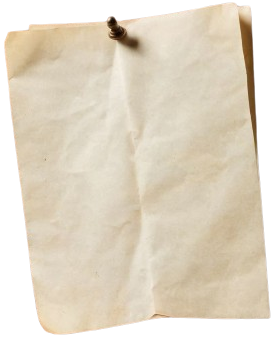
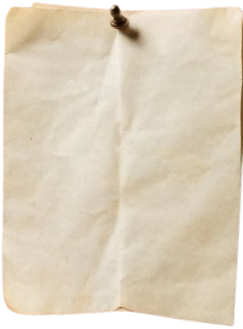
make MainComponent and style them without responsive

diff --git a/src/components/MainSidebar.jsx b/src/components/MainSidebar.jsx
@@ -15,18 +15,23 @@ const MainSidebar = () => {
     if(error) return toast.error(`در دریافت دسته بندی ها مشکلی پیش آمده`)
 
     return (
-        <aside className=' relative  BG sm:w-1/5 top-[10svh] h-[40svh] flex flex-col items-center content-end'>
-            <img className="fixed top-[20svh] h-[42svh] z-0 sm:w-1/5" src={sidebarBG} alt="sidebarBG" />
-            <h1>دسته بندی ها</h1>
-            <section  className='z-10 flex flex-col w-[70%] right-[15%] h-full gap-1'>
-
-                {data.data.map(data=>
-                    <section key={data._id} className='flex flex-row items-start justify-start gap-3'  value={data._id} >
-                        <img src={`${data.icon}.svg`} alt="category icon" />
-                        <p >{data.name}</p>
+        <aside className='fixed sm:w-52 sm:h-[50svh]'>
+            <img className="fixed top-[20svh] sm:h-[50svh] z-0 sm:w-56 right-3" src={sidebarBG} alt="sidebarBG" />
+            <ul  className='relative z-10 top-[14svh] flex flex-col sm:w-48 gap-1 right-6 sm:h-[42svh] overflow-y-scroll'>
+                <li className='titles my-2 text-xs'>دسته بندی ها</li>
+                <li value="all">
+                    <section  className='flex flex-row items-start justify-start gap-3'>
+                        <img src="all.svg" alt="all categories" />
+                        <p>همه</p>
                     </section>
+                </li>
+                {data.data.map(data=>
+                    <li key={data._id} className='flex flex-row items-start justify-start gap-3'  value={data._id} >
+                        <img src={`${data.icon}.svg`} alt="" />
+                        <p >{data.name}</p>
+                    </li>
             )}
-            </section>
+            </ul>
         </aside>
     );
 };

diff --git a/src/components/MainComponent.jsx b/src/components/MainComponent.jsx
@@ -1,11 +1,36 @@
 import React from 'react';
+// utils
+import { ChangePriceToToman } from '../utils/ChangePriceToIranToman';
+// images
+import postsBG from "../assets/images/paper_without_BG.png"
 
-const MainComponent = () => {
+const MainComponent = ({posts}) => {
+console.log(posts);
+
+
+
+
     return (
-        <div>
-            MainComponent
-            MainComponent
-        </div>
+        <main className=' mainPageComponent text-darkBrown'>
+        {
+            posts.map((posts)=>
+                <section key={posts._id} className='relative flex sm:flex-col flex-col items-center justify-between h-80 w-52'>
+                    <img src={postsBG} className='absolute z-0 h-full w-full' alt="" />
+                    <section className='absolute flex flex-col justify-center sm:items-center items-center gap-6 sm:w-1/2 w-full h-1/2 mt-10'>
+                            <img className=' w-full h-full maskForImages' src={`${import.meta.env.VITE_BASE_URL}/${posts.images}`} />
+                            <section className='flex flex-col '>
+                                <p className='text-md'>{posts.options.title}</p>
+                            </section>
+                    </section>
+                    <section className='absolute flex sm:flex-row flex-col items-center justify-center sm:items-center sm:justify-center gap-3 h-1/2 top-1/2 sm:w-1/2 w-full'>
+                            <section className='grid place-items-center py-3'>
+                                <p>{posts.options.city}</p>
+                                <span><span className='text-gray-700 text-xs'> قیمت :  </span>{ChangePriceToToman(posts.amount)}تومان</span>
+                            </section>
+                    </section>
+                </section>
+        )}
+        </main>
     );
 };
 

diff --git a/src/components/CategoryList.jsx b/src/components/CategoryList.jsx
@@ -1,5 +1,5 @@
 import React, { useState } from 'react';
-import { useQuery } from '@tanstack/react-query';
+import { useQuery, useQueryClient } from '@tanstack/react-query';
 // services & utils
 import { getCategory } from '../services/Admin';
 import Loader from '../modules/Loader';
@@ -8,7 +8,6 @@ import DeleteCategoris from './DeleteCategoris';
 import toast from 'react-hot-toast';
 
 const CategoryList = () => {
-    
     const{data,isLoading,isError,error}=useQuery({queryKey:["category-list"],queryFn:getCategory })
     
 
@@ -18,12 +17,12 @@ const CategoryList = () => {
         if(isError)return toast.error(`${error.message}`)
     return (
         <article className=' relative flex flex-col items-start justify-between border-red-200 border-[1.5px] text-sm px-2  w-[90%] right-[5%] rounded-xl  backdrop-blur-sm bg-white bg-opacity-40'> 
-            <h1 className='relative text-center bg-darkRed text-white w-[90%] right-[5%] rounded-2xl '>دسته بندی ها</h1>
+            <h1 className='titles my-2'>دسته بندی ها</h1>
             {   
                 data.data.map(data=>
                     <section className='flex flex-row items-center justify-between w-full' key={data._id}>
                         <section className='w-1/2  flex flex-row items-stretch py-4' >
-                            <img className=' h-[1.8cap]' src={`${data.icon}.svg`} alt={data.icon} />
+                            <img className=' h-[1.8cap]' src={`${data.icon}.svg`} alt="" />
                             <h5>{data.name}</h5>
                         </section>
                         <section className='flex flex-row items-center justify-between w-1/2'>

diff --git a/src/index.css b/src/index.css
@@ -5,15 +5,21 @@
 @tailwind utilities;
 
 
-:root {
-  --scrollbar-width: 16px;
-}
+
 
 @layer base { 
+  :root {
+    --color-lightBrown: #c9a07e;
+    --color-darkBrown: #6d3100;
+    --color-lightOrange: #d5532057;
+    --color-lightBlue: #87ceeb;
+    --color-darkRed: #d02727;
+  }
   html {
     font-family: "Vazir"; 
     min-height:100svh;
   }
+
 
 
 
@@ -80,7 +86,53 @@
     color: #000000;
     text-shadow: 0 0 5px #fff;
   }
+  ::-webkit-scrollbar {
+    width: 12px;
+  }
 
+  ::-webkit-scrollbar-track {
+    background: var(--color-lightOrange);
+    border-radius: 6px ;
+    border: 1px solid #00000066;
+  }
+
+  ::-webkit-scrollbar-thumb {
+    background-color: var(--color-darkBrown);
+    border-radius: 6px;
+  }
+  
+  ::-webkit-scrollbar-thumb:hover {
+    background-color: var(--color-lightBrown);
+    border: 1px solid #000
+  }
+  .titles{
+    padding-inline:20px;
+    box-shadow: 0 0 5px #000 , 0 0 10px #000000 , inset 0 0 0px #000;
+    border-radius: 30px;
+    padding: 5px 10px;
+    position: relative;
+    background: var(--color-lightBrown);
+    text-align: center; 
+
+    width: 50%;
+    right: 25%;
+  }
+  .mainPageComponent{
+    position: relative;
+    height: fit-content;
+    right: 16rem;
+    width:calc(100svw - 18rem) ;
+    display: grid;
+    grid-template-columns: repeat(auto-fit,minmax(200px,1fr));
+    row-gap: 30px;
+    column-gap:20px;
+  }
+  .maskForImages{
+    mask-border-source: url('./assets/images/images_mask.png');
+    mask-size:contain;
+    mask-position: center;
+    mask-repeat: no-repeat;
+  }
 }
 
 @media (width <= 1024px){

diff --git a/src/Routes/Router.jsx b/src/Routes/Router.jsx
@@ -11,29 +11,25 @@ import { useQuery } from "@tanstack/react-query"
 import {userInformations} from "../services/GetUserProfile"
 import Loader from "../modules/Loader"
 import { getCookie } from "../utils/cookie"
+import toast from "react-hot-toast"
 
 
 const Router =()=> {
-    const userINFS=getCookie("userInformations");
-    const accessToken=getCookie("accessToken")
-    const initialData = userINFS && JSON.parse(userINFS);
-    
-  const { data, isLoading, error } = useQuery({
-            queryKey: ["profile"],
-            queryFn: userInformations,
-            initialData,
-            staleTime:Infinity,
-            cacheTime:Infinity,
-            enabled:!(!!accessToken),
-          });
+    const { data, isLoading, error } = useQuery({
+        queryKey: ["profile"],
+        queryFn: userInformations,
+        staleTime:Infinity,
+        cacheTime:Infinity,
+      }) ;
 
 if(isLoading) return <Loader/>;
+if(error) return toast.error("مشکلی پیش آمده،دوباره امتحان کنید")
     return(
         <Routes>
             <Route index element={<HomePage/>}/>
             <Route path="/dashbord" element={data ? <DashbordPage/> : <Navigate to="/auth"/>}/>
             <Route path="/auth" element={data ?<Navigate to="/dashbord"/> : <AuthPage/>}/>
-            <Route path="/admin" element={data && data.role==="ADMIN"?<AdminPage/> : <Navigate to="/"/> }/>
+            <Route path="/admin" element={data && data.data.role==="ADMIN"?<AdminPage/> : <Navigate to="/"/> }/>
             <Route path="*" element={<NotFound/>}/>
         </Routes>
     )

diff --git a/src/components/PostsList.jsx b/src/components/PostsList.jsx
@@ -10,15 +10,15 @@ import DeletePosts from './DeletePosts';
 
 const PostsList = () => {
     const baseURL=import.meta.env.VITE_BASE_URL;
+
     const{isLoading,data,error}=useQuery({queryKey:["my-posts-list"],queryFn:getMyPosts});
     
     if(error){return toast.error(`دریافت پست های شما با خطا مواجه شد ، دوباره امتحان کنید`)}
     if(isLoading)return <Loader text={"در حال بارگذاری لیست"}/>
-
-console.log(data.data.posts[0]._id);
+    console.log({isLoading,data,error});
     return (
         <article className=' relative flex flex-col items-start justify-between gap-2 border-red-200 border-[1.5px] text-sm px-2  w-[90%] right-[5%] rounded-xl  backdrop-blur-sm bg-white bg-opacity-40'>
-            <h1 className='relative text-center bg-darkRed text-white w-[90%] right-[5%] rounded-2xl '>لیست پست های من</h1>
+            <h1 className='titles text-sm '>لیست پست های من</h1>
             {
                 data.data.posts.map(post=>
                     <section key={post._id} className='flex sm:flex-row flex-col items-center justify-between py-2 w-full  border-red-300 border-b-[1.5px]'>

diff --git a/src/pages/HomePage.jsx b/src/pages/HomePage.jsx
@@ -1,13 +1,28 @@
 import React from 'react';
+// components
 import MainSidebar from '../components/MainSidebar';
 import MainComponent from '../components/MainComponent';
+// queries
+import { useQuery } from '@tanstack/react-query';
+import { getAllPosts } from '../services/Dashbord';
+import Loader from '../modules/Loader';
+import toast from 'react-hot-toast';
 
 const HomePage = () => {
+        const {data,isLoading,error}=useQuery({queryKey:["all-posts"],queryFn:getAllPosts})
+        
+        const shownPosts=data?.data.posts;
+    if(isLoading)return <Loader/>;
+    if(error) toast.error("بارگذاری با خطا مواجه شده است")
     return (
-        <main className='flex flex-row'>
+        <>
+        {isLoading ? <Loader/>:
+            <main className='flex flex-row'>
             <MainSidebar/>
-            <MainComponent/>
-        </main>
+            <MainComponent posts={shownPosts}/>
+            </main>
+        }
+        </>
     );
 };
 

diff --git a/src/services/Dashbord.jsx b/src/services/Dashbord.jsx
@@ -10,13 +10,17 @@ const AddNewPostFunction=(formData)=>{
             {headers:{
                 "Content-Type":"multipart/form-data",
                 Authorization:`bearer ${accessToken}`}
-            }).then(res=>(res.status===200)&&toast.success("دسته بندی با موفقیت افزوده شد"))
+            }).then(res=>(res.status===200)&&toast.success("پست با موفقیت افزوده شد"))
             .catch(err=>toast.error(`درخواست با خطا مواجه شد ، دلیل خطا ${err}`))
 
 }
 
 const getMyPosts=()=>api.get("/post/my");
 
+const getAllPosts=()=>api.get("")
+
 const deletePost=(id)=>api.delete(`/post/delete/${id}`)
 
-export {AddNewPostFunction,getMyPosts,deletePost}
+
+
+export {AddNewPostFunction,getMyPosts,deletePost,getAllPosts}

diff --git a/src/components/CategoryForm.jsx b/src/components/CategoryForm.jsx
@@ -40,10 +40,10 @@ const CategoryForm = () => {
         className='form h-[20rem] backdrop-blur-sm'
         >
             { (data?.status === 201) && <h3 className='bg-red-700 px-6 rounded-2xl text-red-100'>دسته بندی با موفقیت افزوده شد</h3>}
+            {isPending&& <h1 className='bg-red-100 px-6 rounded-2xl text-red-700'>در حال افزودن دسته بندی</h1>}
 
             <h1 className='text-xl'>افزودن دسته بندی</h1>
 
-            {isPending&& <h1>در حال افزودن دسته بندی</h1>}
             
             <label className='formLabel'htmlFor="name">اسم دسته بندی</label>
             <input className='input' defaultValue="" type="text" id='name' name='name' />

diff --git a/src/modules/ConfirmationDialog.jsx b/src/modules/ConfirmationDialog.jsx
@@ -12,7 +12,7 @@ const ConfirmationDialog = ({
     return (
         <>
         {showingQuestion &&
-            <article className='fixed w-full h-[20svh]  right-0  top-[40%] z-50 grid place-items-center  rounded-xl  shadow-2xl text-center  bg-red-400 bg-opacity-80  '>
+            <article className='fixed w-full h-[20svh]  right-0  top-[40%] z-50 grid place-items-center  rounded-xl  shadow-2xl text-center bg-lightBrown  bg-opacity-80  '>
             <p className='text-2xl  z-[55] '>{dialogText}</p>
             <section className='w-full flex items-center justify-around z-[55]'>
                 <button className='Darkbutton w-2/5 text-xl' onClick={handleConfirmDelete}>بلی</button>

diff --git a/src/components/DeleteCategoris.jsx b/src/components/DeleteCategoris.jsx
@@ -43,9 +43,9 @@ const DeleteCategoris = ({categoryId}) => {
 
     return (
         <>
-            <button className='Darkbutton p-0 m-0 sm:text-sm text-xs bg-red-300' onClick={deleteHandler}>حذف </button>
+            <button className='Darkbutton p-0 m-0 sm:text-sm text-xs bg-lightOrange' onClick={deleteHandler}>حذف </button>
             { isPending &&
-            <section className=' ' >
+            <section className='grid place-items-center' >
                 <Loader text={"در حال حذف دسته بندی"}/>
                 <p>در حال حذف دسته بندی</p>
             </section>

diff --git a/tailwind.config.js b/tailwind.config.js
@@ -6,11 +6,12 @@ export default {
   ],
   theme: {
     extend: {
-      colors:{
-        lightBrown:"#c9a07e",
-        lightOrange: "#d5532057",
-        lightBlue:"#87ceeb",
-        darkRed:"#d02727",
+      colors: {
+        lightBrown: 'var(--color-lightBrown)',
+        darkBrown: 'var(--color-darkBrown)',
+        lightOrange: 'var(--color-lightOrange)',
+        lightBlue: 'var(--color-lightBlue)',
+        darkRed: 'var(--color-darkRed)',
       },
       boxShadow:{
         "3xl":"0 0px 50px -12px rgb(0 0 0 / 0.75)",
